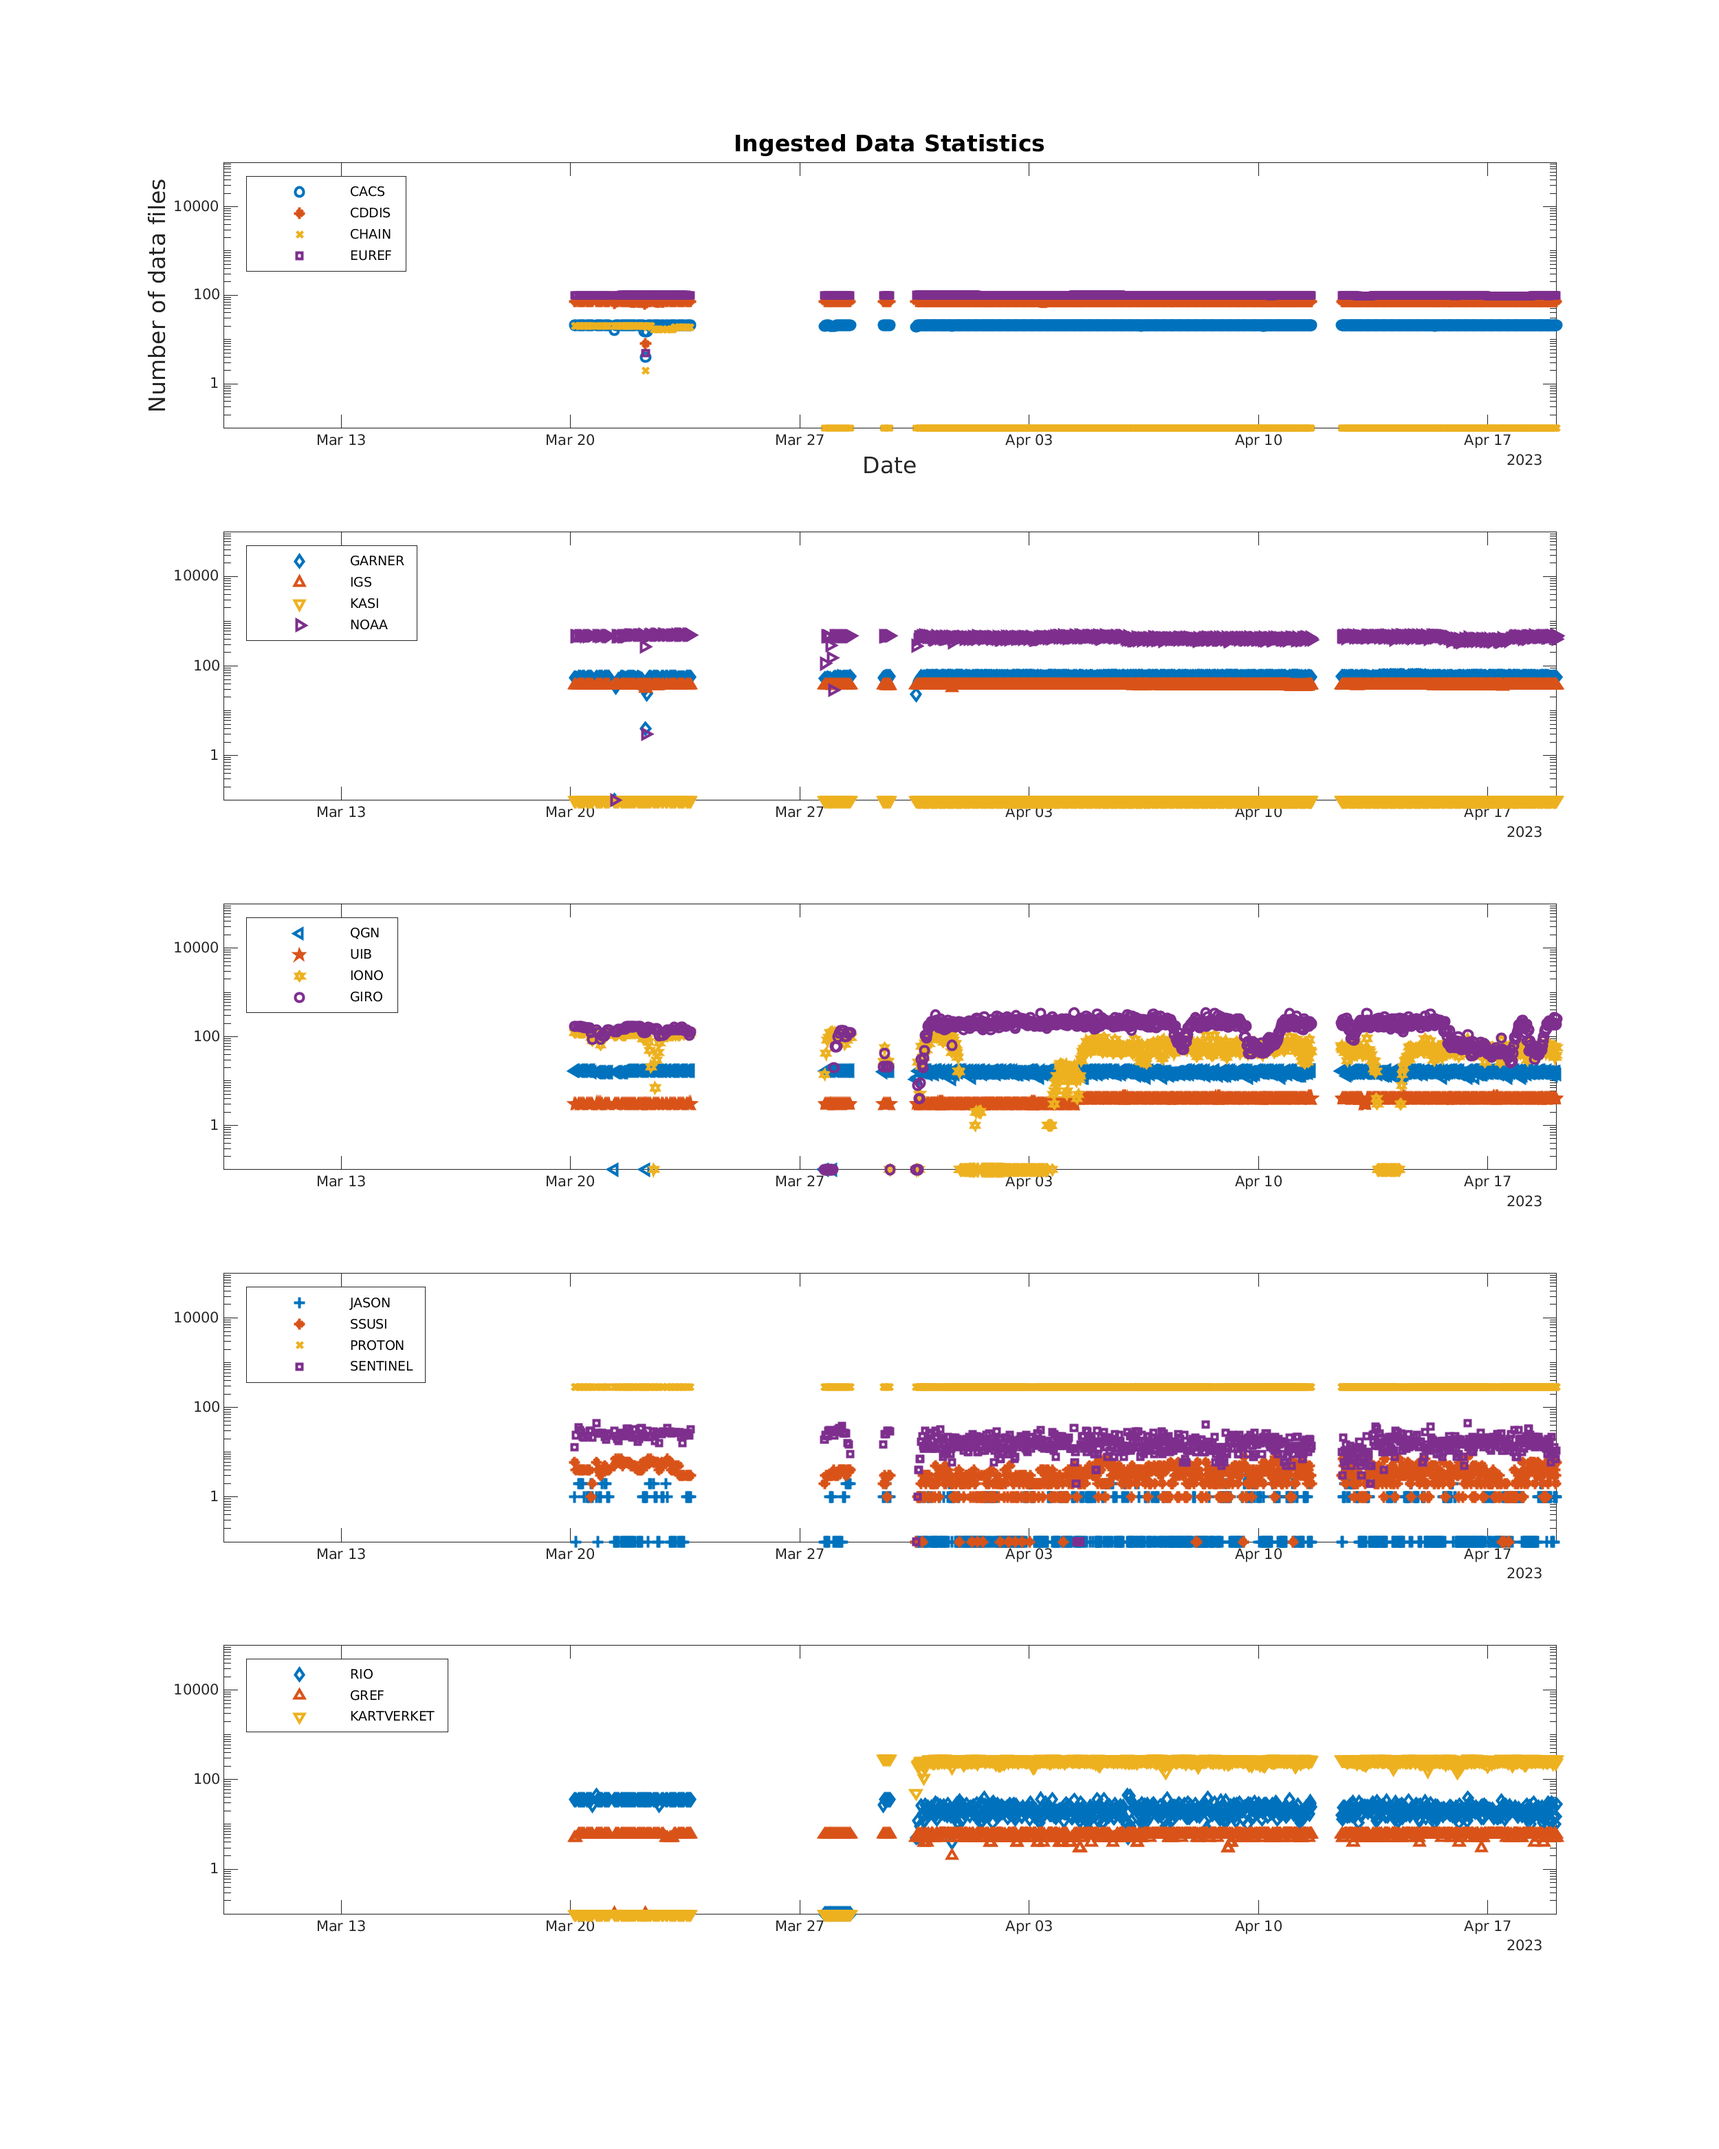
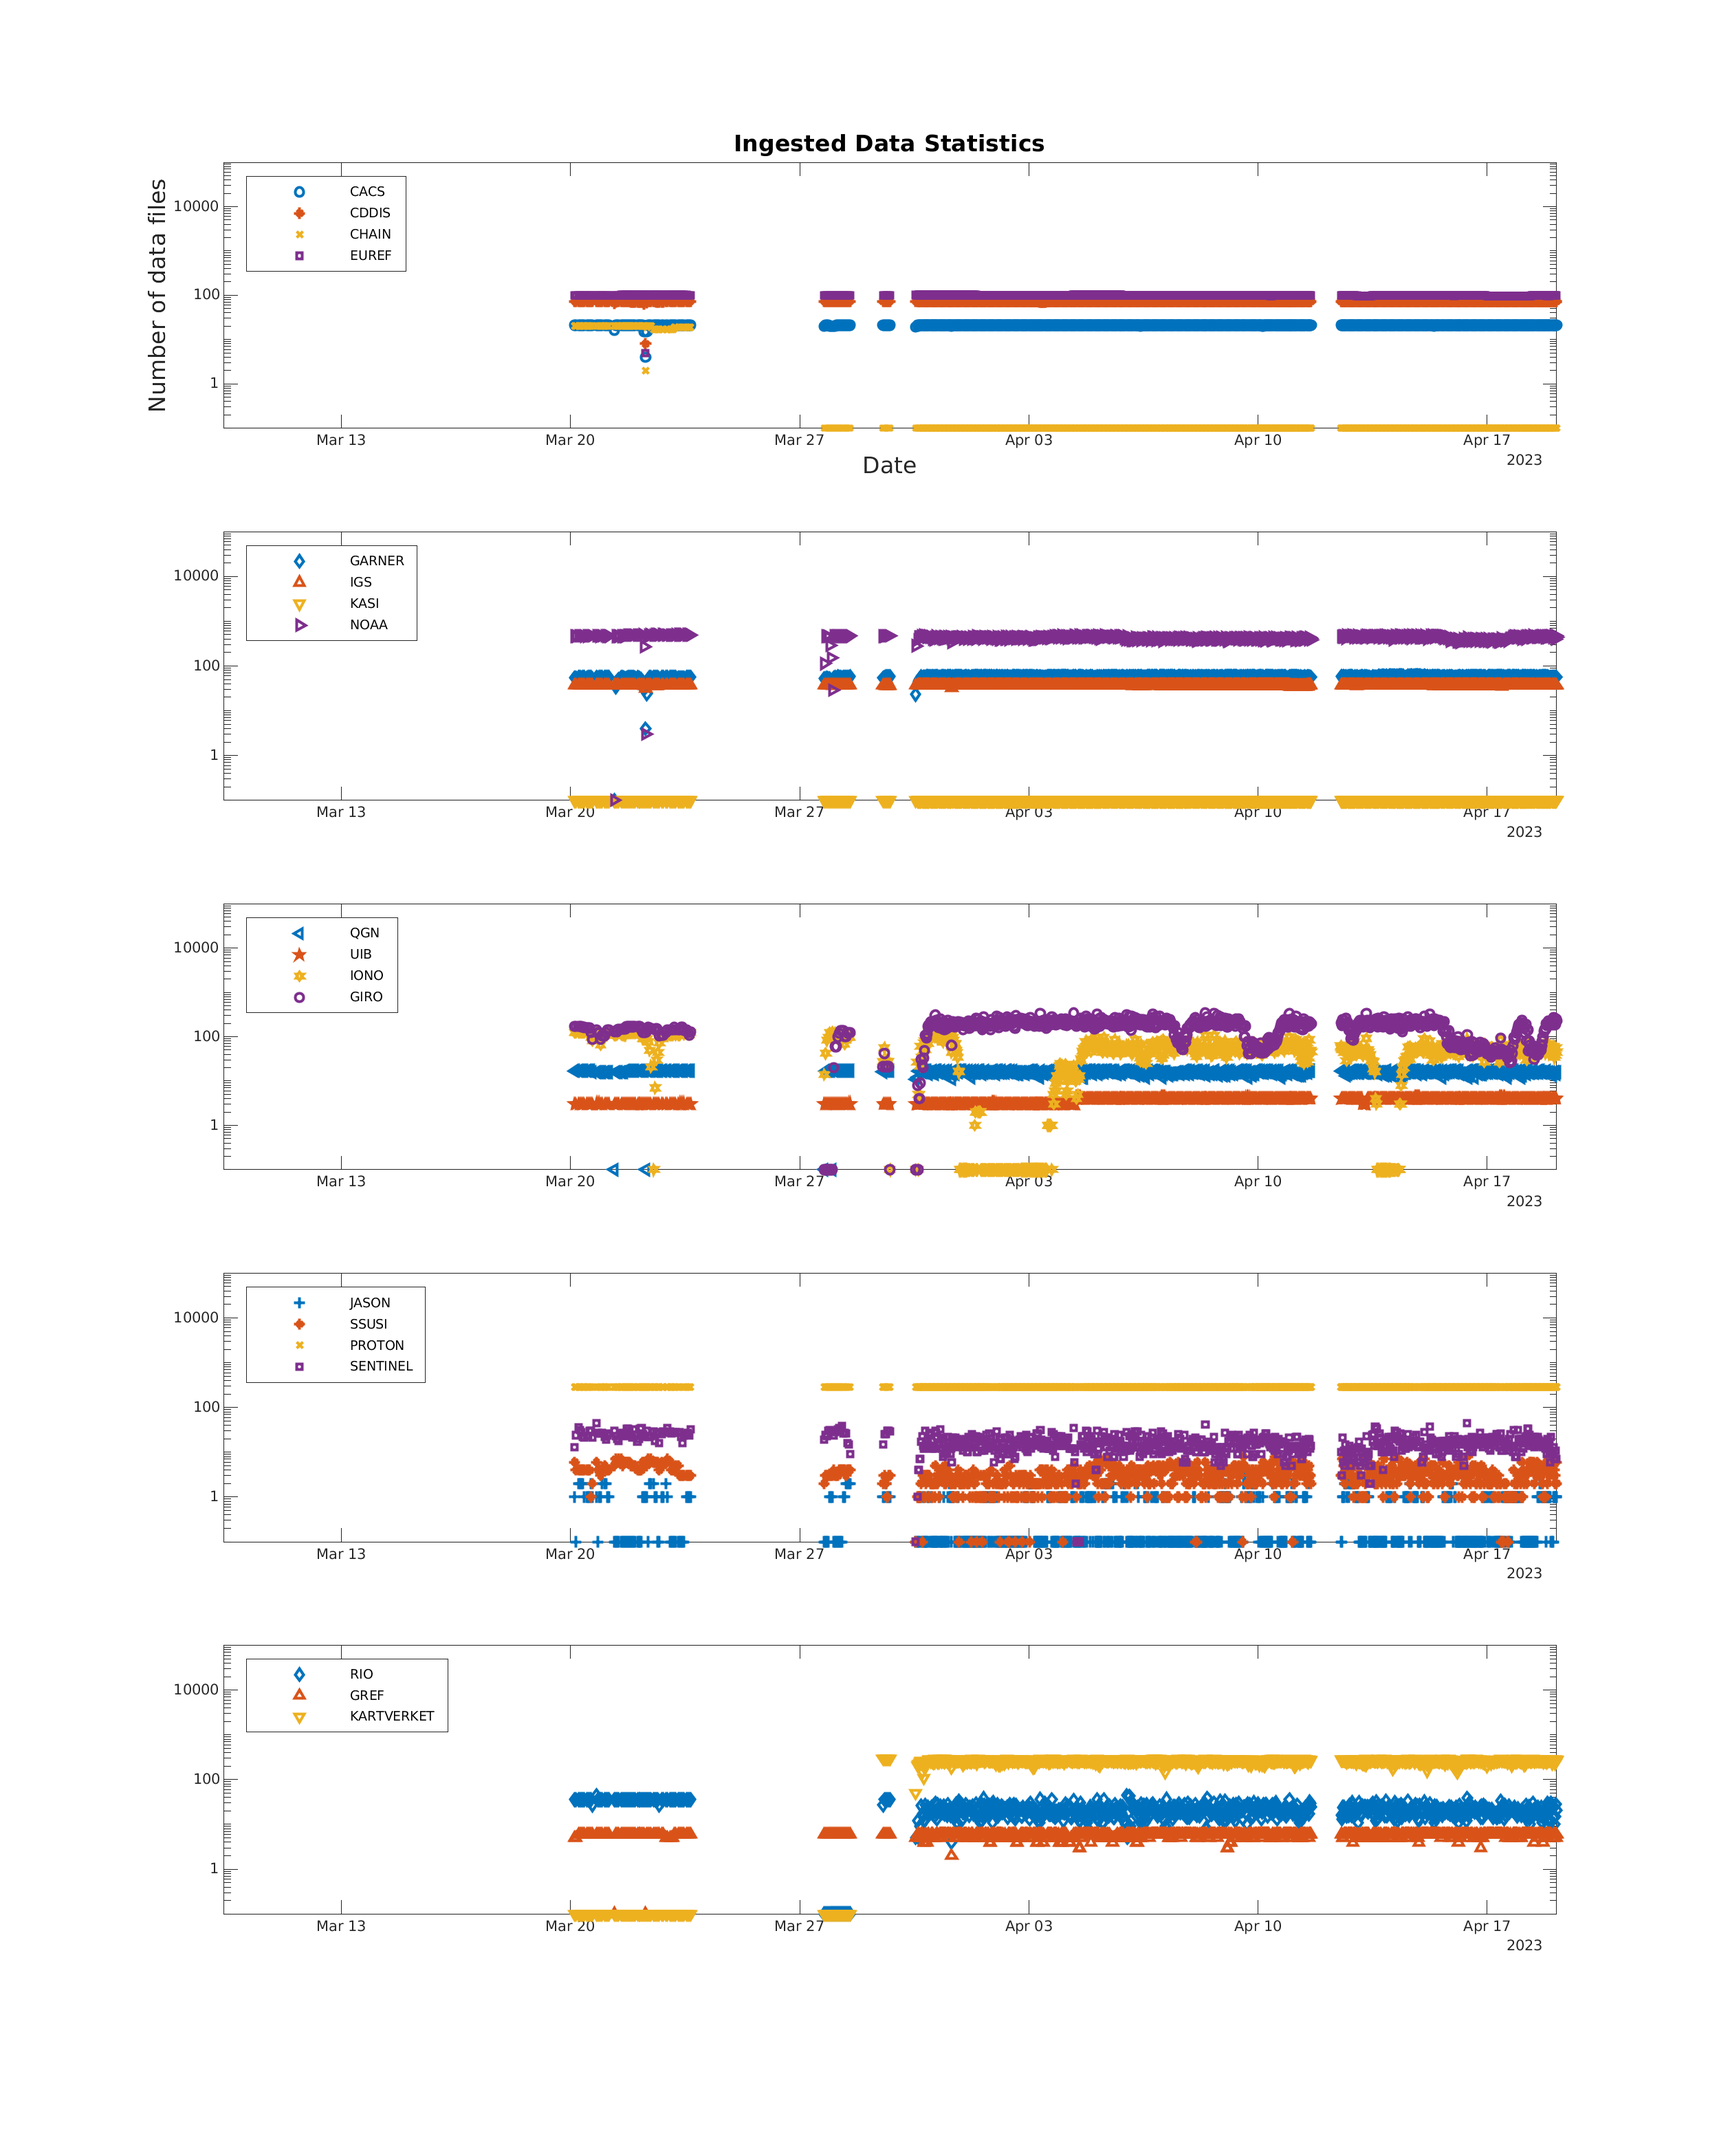
update 2023-04-19 03:16:25

Changed region(s): [[0.8736, 0.4656, 0.9048, 0.4966]]

diff --git a/_posts/2023-04-19-02-50-06.md b/_posts/2023-04-19-02-50-06.md
@@ -1,8 +1,8 @@
 ---
 layout: post
-title: "2023-04-19 02:20:24"
+title: "2023-04-19 02:50:06"
 subtitle: "ModelData Issues: 3; A-CHAIM System Issues: 1"
-
+permalink: /latest/
 ---
 
 ![]({{ "/assets/img/achaimDataStatsShort-2310902.png" | relative_url }})
@@ -17,11 +17,11 @@ subtitle: "ModelData Issues: 3; A-CHAIM System Issues: 1"
 ### ModelData Issues:  
   
 {: .box-warning}  
- ModelData report for 19-Apr-2023 02:20:09   
+ ModelData report for 19-Apr-2023 02:50:52   
  /home/chaim/ACHAIM_SERVER/A-CHAIM/modelData/2023/109/02/modelData.mat   
- 3.5088% of IONO foF2 data is non-zero and finite.   
- 0% of all possible stations for KASI were downloaded. x2000   
- 0% of all possible stations for CHAIN were downloaded. x961   
+ 0% of IONO foF2 data is non-zero and finite.   
+ 0% of all possible stations for KASI were downloaded. x2001   
+ 0% of all possible stations for CHAIN were downloaded. x962   
   
 ### A-CHAIM System Issues:  
   
